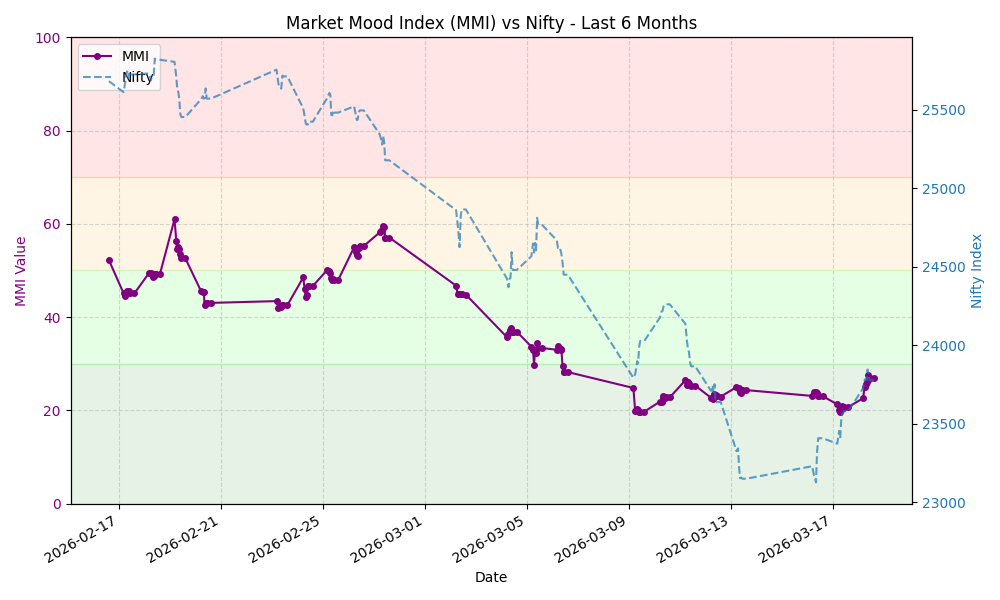
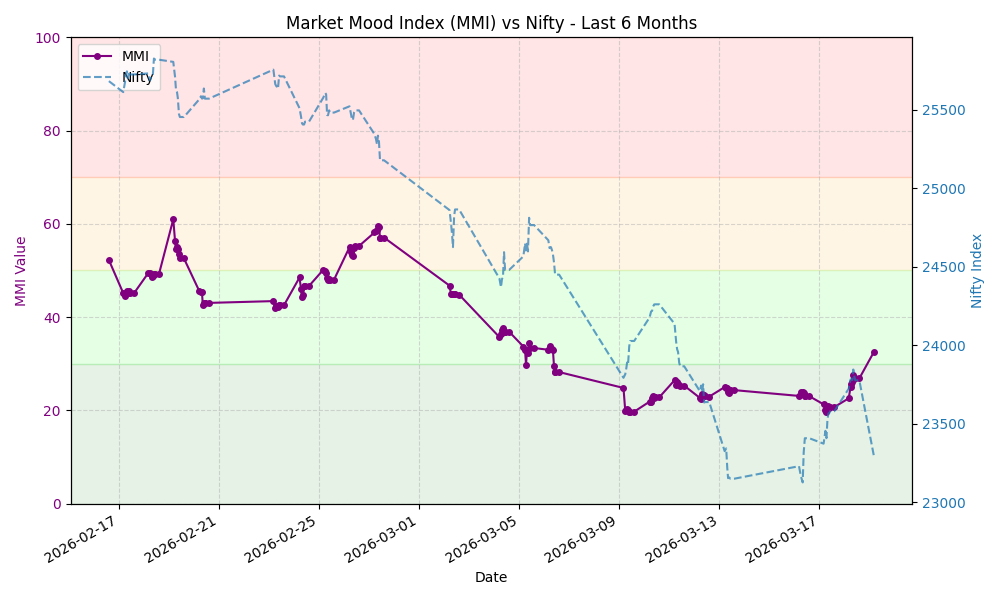
Update MMI data and chart

diff --git a/README.md b/README.md
@@ -7,8 +7,8 @@ This repository automatically fetches the MMI value, stores the history, and gen
 
 ## Latest MMI Value
 
-**26.85** - **Extreme Fear**
-<small>Last Updated: 2026-03-18 14:20 UTC</small>
+**32.47** - **Fear**
+<small>Last Updated: 2026-03-19 04:09 UTC</small>
 
 ## MMI Trend (Last 30 Days)
 
